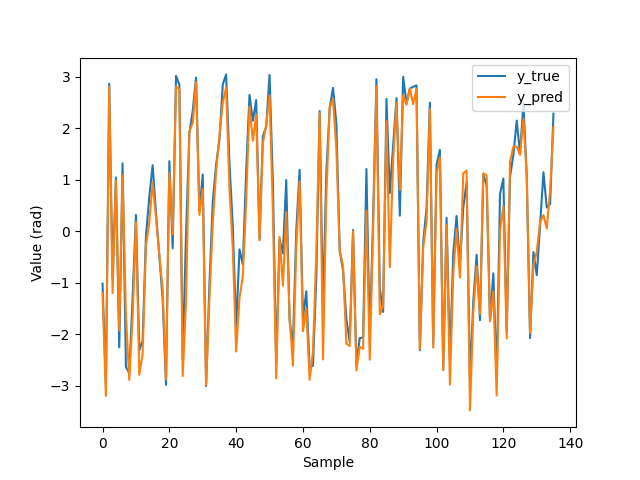
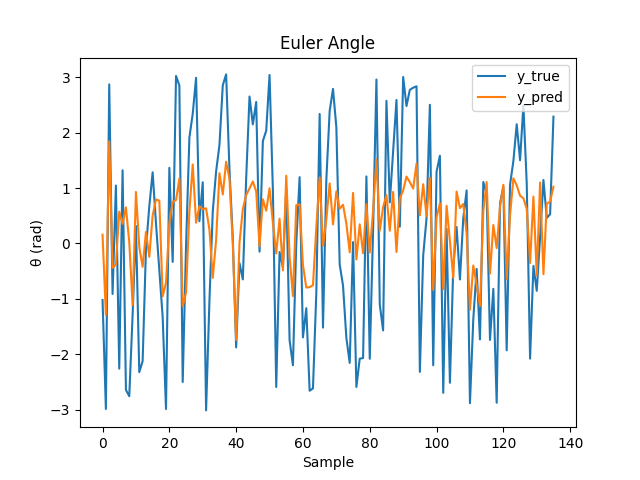
primi risultati

diff --git a/usage_NN.py b/usage_NN.py
@@ -43,6 +43,20 @@ y_pred, y_test_p = train_test_split(y_pred, test_size=0.95, random_state=seed)
 print('y_pred = ', y_pred.shape)
 print('y_true = ', y_true.shape)
 
+# titoli e voci
+title=[]
+title.append('one')
+title.append('two')
+title.append('three')
+angle=[]
+angle.append('θ')
+angle.append('φ')
+angle.append('ψ')
+vel_ang=[]
+vel_ang.append('p')
+vel_ang.append('q')
+vel_ang.append('r')
+
 
 # Creazione dei grafici
 for i in range(6):
@@ -51,10 +65,10 @@ for i in range(6):
     plt.plot(y_pred[:, i], label='y_pred')
     plt.xlabel('Sample')
     if i < 3:
-        plt.ylabel('Magnitude (rad/s)')
+        plt.ylabel(f'{vel_ang.pop(0)} (rad/s)')
         plt.title("Angular velocity")
     else:
-        plt.ylabel('Value (rad)')
+        plt.ylabel(f'{angle.pop(0)} (rad)')
         plt.title('Euler Angle')
 
     plt.legend()
@@ -62,8 +76,3 @@ for i in range(6):
     plt.savefig(nome_file)
     plt.clf()
     plt.close()
-
-# Mostra i grafici
-del input_da_valutare
-del previsioni
-plt.show()
